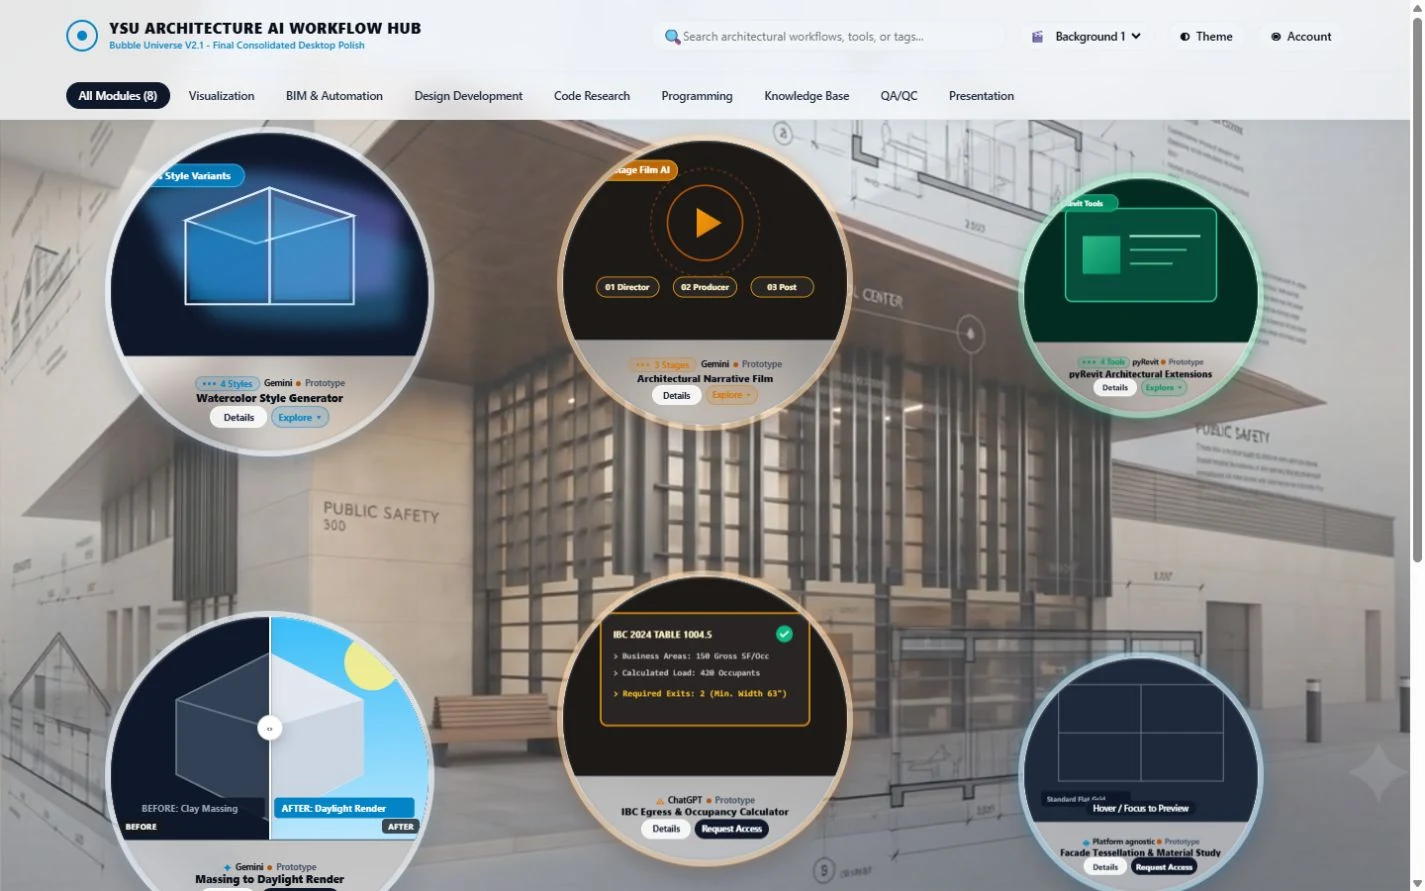
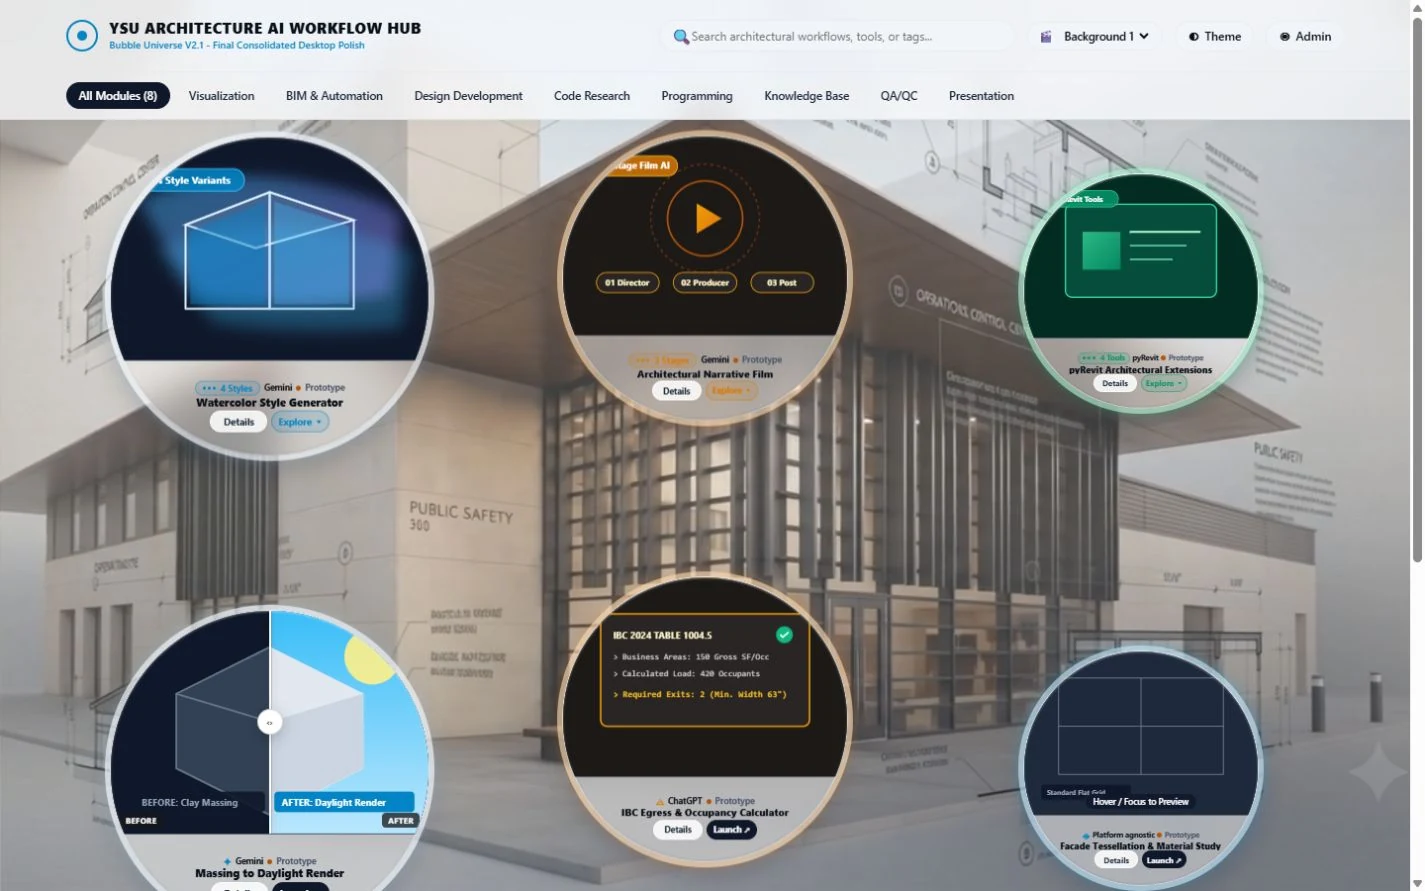
Refresh eight curated previews for MAIN release

diff --git a/assets/previews/README.md b/assets/previews/README.md
@@ -23,23 +23,23 @@ Store each image at `/assets/previews/{slug}.webp`. The filename must match the 
 
 No scheduled, background, deployment-triggered, or unattended screenshot automation is permitted. Using browser capture and conversion tools during an explicit MAIN maintenance task is permitted; do not turn that workflow into an automatic capture service or job. Remote screenshot services, iframe previews, and synthetic application screenshots remain out of scope. New Registry products use the same renderer automatically; the image is the only optional manually curated visual asset. Missing previews may be supplied by the owner or an authorized agent during an explicit MAIN maintenance task.
 
+## Curated release capture batch — 2026-09-11
 
-## Curated capture batch — 2026-09-11
+All eight targets were opened and freshly captured during this explicit MAIN maintenance task. ADCC is a real local development interface, not a fabricated application image. No screenshot includes a Netlify badge, permission prompt, loading/error page, email address, or private document content. The source viewport was 1440 × 900; scrollbar-bearing native captures are 1425 × 891. No image was upscaled. WebP quality is 88, or 82 for Rachel artwork. All eight assets decode successfully.
 
-Captured during an explicit MAIN maintenance task, from the public production pages below. Browser viewport requested: 1440 × 900. Native captures are 1425 × 891 except Rachel (1440 × 900), all approximately 16:10; no upscaling or UI reconstruction. WebP quality: 88, reduced to 82 for the detailed Rachel artwork. All five assets decode successfully.
+| Asset | Capture target | Selected state | Resolution | Size (KiB) |
+| --- | --- | --- | --- | ---: |
+| `ycsu-platform.webp` | https://main.ycsu.cc | Current production homepage; temporary pre-release self-preview | 1425 × 891 | 62.0 |
+| `workflow-hub.webp` | https://hub.ycsu.cc | Current all-modules landing view | 1425 × 891 | 99.2 |
+| `ycsu-tracker.webp` | https://tracker.ycsu.cc | Cloud-synced public Card view; email input empty | 1425 × 891 | 103.3 |
+| `rachels-animal-kingdom.webp` | https://game.ycsu.cc/RaAnimalChess | Current cover with ENTER THE KINGDOM | 1440 × 900 | 230.6 |
+| `fire-pump-test-pit-simulator.webp` | https://tools.ycsu.cc/fire-pump-test-pit/#model | 3D model; default 1,500 GPM study | 1425 × 891 | 89.2 |
+| `plumbing-calculation-chart.webp` | https://tools.ycsu.cc/plumbing-chart/ | Initialized CPC 2025 landing interface; no schedule selected | 1440 × 900 | 42.8 |
+| `ysu-mind-map.webp` | https://mind.ycsu.cc | Public graph with 137 ideas / 505 relationships; Synthetic data only | 1440 × 900 | 97.4 |
+| `adcc.webp` | Authorized local development interface | Real M1 Foundation Galaxy with development mission nodes; no agent dispatch | 1440 × 900 | 17.8 |
 
-| Asset | Verified production source | Selected state | Size (KiB) |
-| --- | --- | --- | ---: |
-| `ycsu-platform.webp` | https://main.ycsu.cc | Current production homepage, before the new preview-card deployment | 64.1 |
-| `workflow-hub.webp` | https://hub.ycsu.cc | Public, signed-out landing view; default background and all modules | 102.8 |
-| `ycsu-tracker.webp` | https://tracker.ycsu.cc | Public Card/kanban view after cloud sync; sign-in email field cleared | 103.3 |
-| `rachels-animal-kingdom.webp` | https://game.ycsu.cc/RaAnimalChess | Current public cover and ENTER THE KINGDOM entry | 230.6 |
-| `fire-pump-test-pit-simulator.webp` | https://tools.ycsu.cc/fire-pump-test-pit/ | Deliberately selected `#model` section; default 1,500 GPM study and 3D flow view | 90.5 |
+The Plumbing URL must retain its trailing slash. Mind Map was verified in the browser, including working search over the public synthetic graph; this verifies reachability, not a new maturity or version. ADCC remains Local Only with a DEVELOPMENT PREVIEW label and no launch link.
 
-**Plumbing not captured:** the Registry still lists `https://tools.ycsu.cc/plumbingchart/`. Both that route and `https://tools.ycsu.cc/plumbing-chart/` returned HTTP 404 and displayed Netlify's Page not found in the browser. No working replacement route was verified; do not treat the hyphenated candidate as confirmed. Keep the missing-preview fallback until the route is resolved in a separate task. No Registry data was changed.
+**MAIN self-preview release requirement:** the current `ycsu-platform.webp` represents the production page before the new preview-card release. After the new UI is deployed, capture that actual production UI again, replace this one asset, commit, and redeploy the same existing MAIN site. Do not substitute a local QA screenshot for the required post-deploy capture.
 
-ADCC remains Local with no verified deployed interface and no image. YSU Mind Map remains Not Deployed and intentionally has no screenshot.
-
-The bundled snapshot was refreshed only through `node scripts/snapshot-registry.mjs` (Registry → file) and validated: 8 products. Before refresh it lacked Fire Pump, Plumbing, and Mind Map; Rachel and Workflow Hub had stale deployment/metadata, and Tracker had an older update date/status note. YCSU Platform and ADCC were unchanged. The snapshot faithfully retains the Registry's currently broken Plumbing URL; it is not a manual correction of production data.
-
-Visual review: desktop 3 columns, tablet 2, mobile 1; light and dark themes; top-aligned crops; image loading and missing-image fallbacks; long names/categories; and three-line Status Notes. Fine text in dense MAIN/Tracker screenshots is small at card scale, while the visual structure remains identifiable. MAIN's image intentionally represents the currently deployed homepage, not the unmerged local redesign. These assets do not establish engineering validation of the simulator or uptime of any product.
+These captures do not change Registry metadata. Registry corrections must use `registry-ops`; refresh the bundled snapshot only after the writes succeed. Until then, Not Deployed entries continue to use their designed placeholder even if a preview asset is already present. Fresh captures can be byte-identical to the previous asset when the selected live interface has not changed (Rachel and Tracker in this batch).
